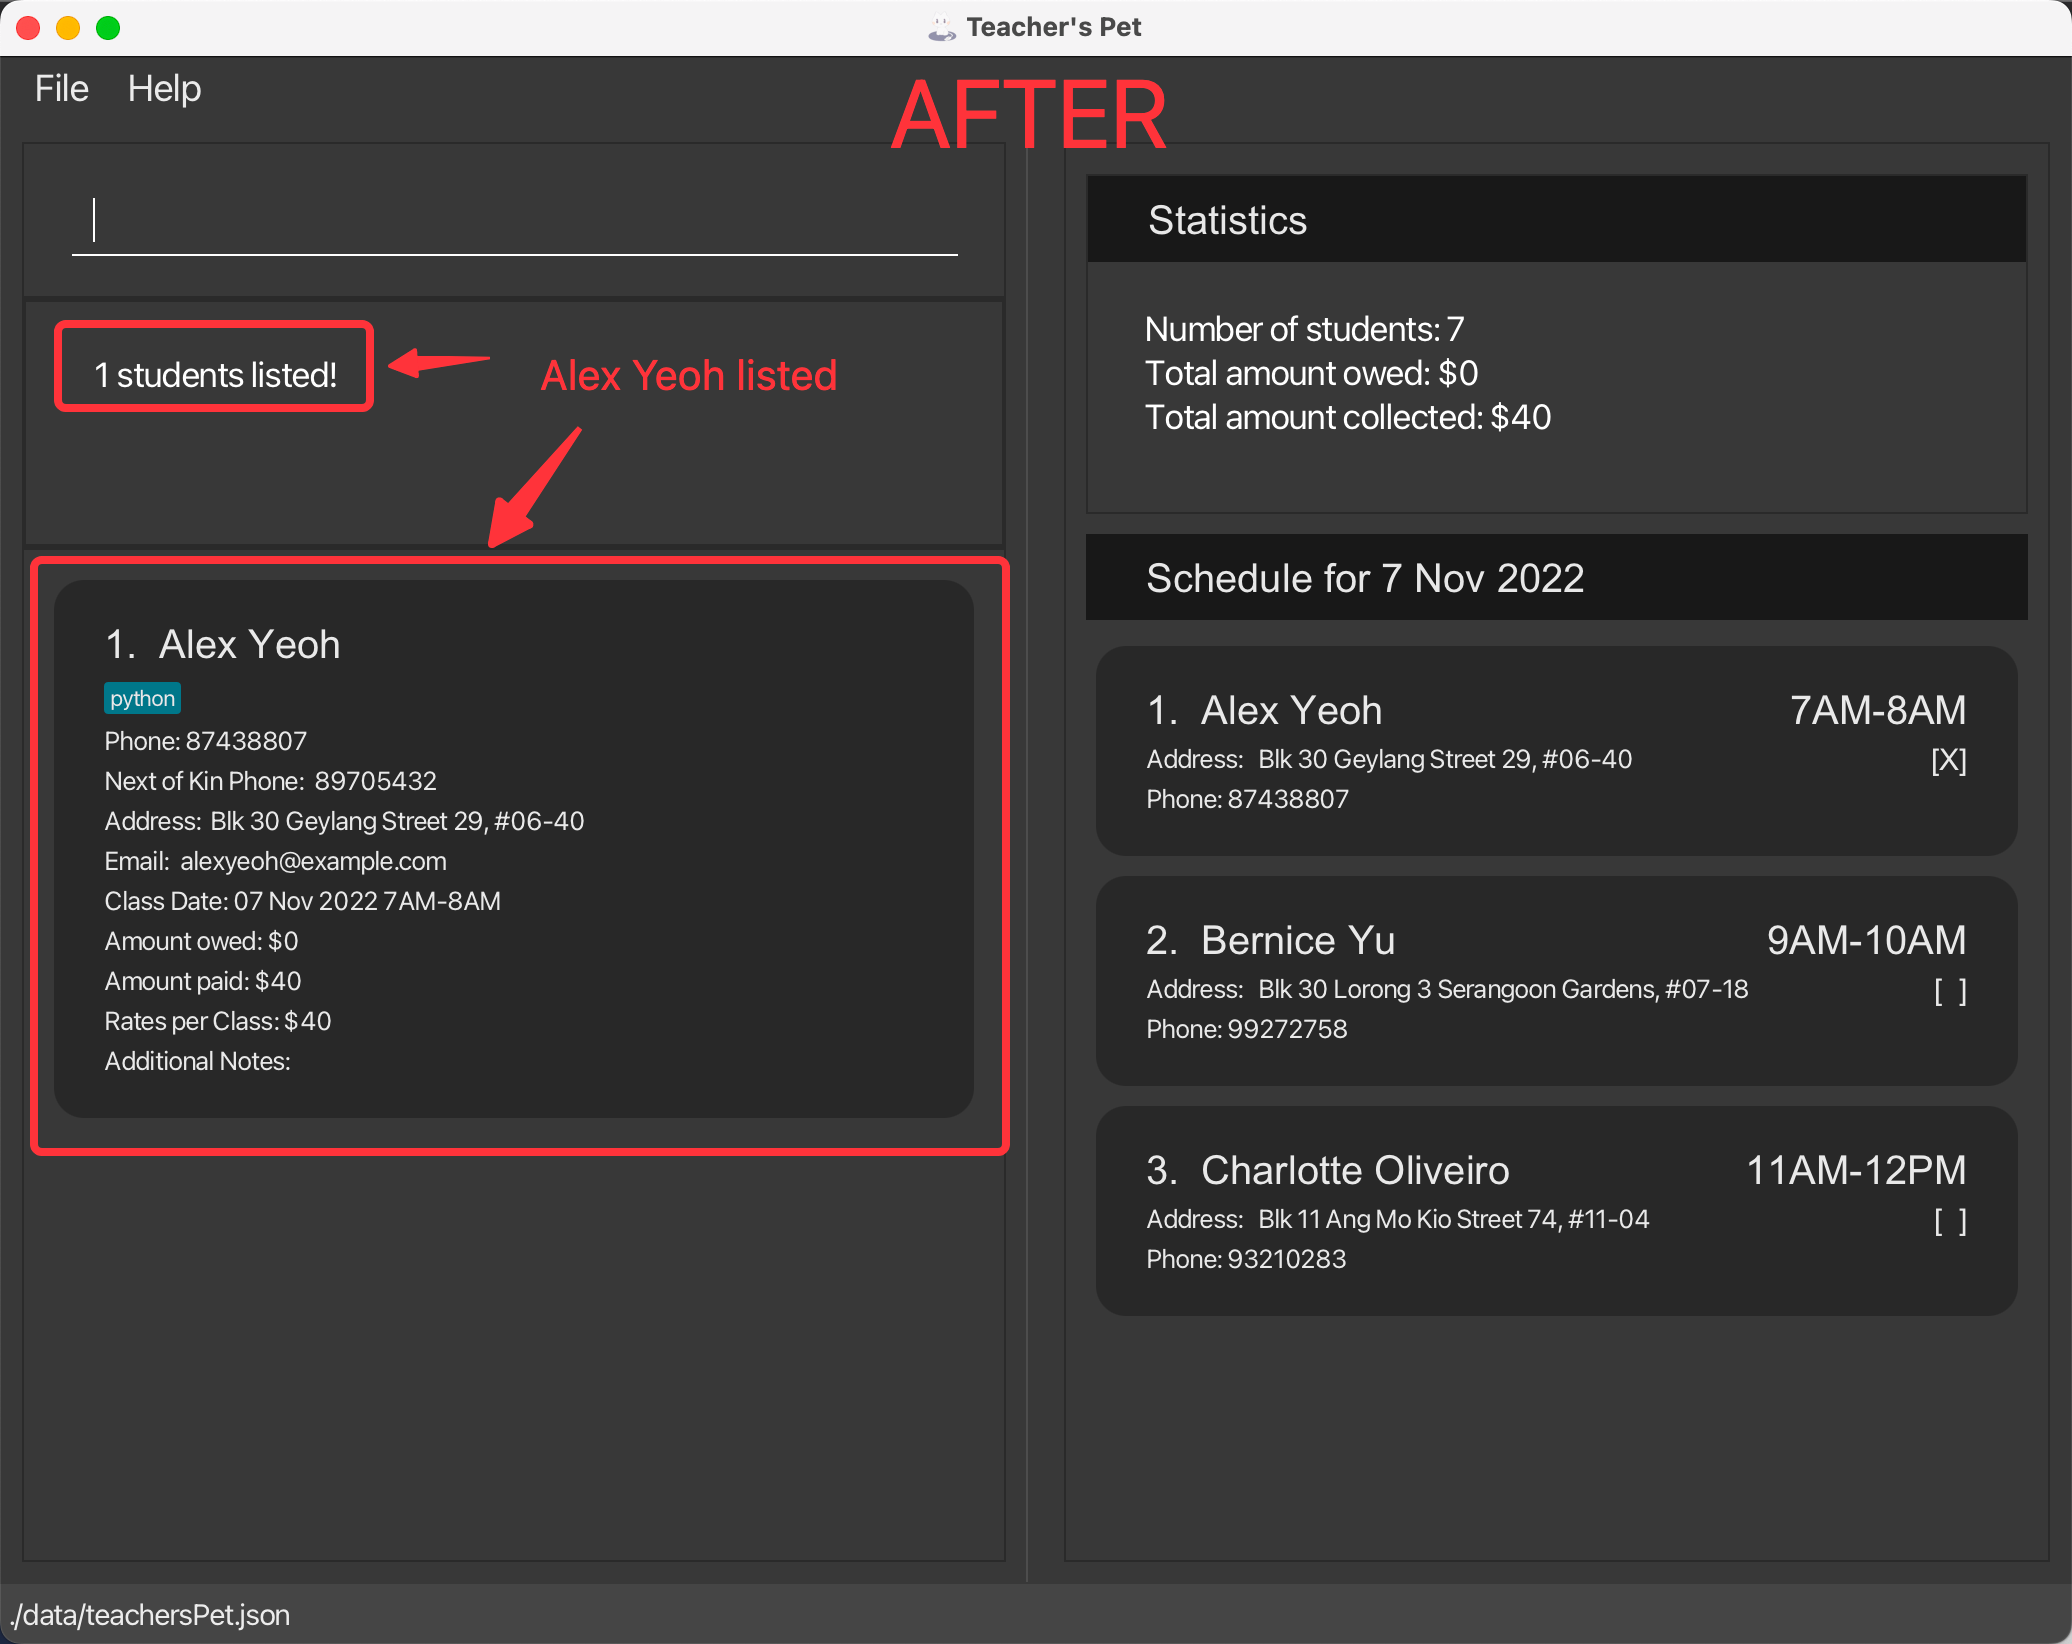
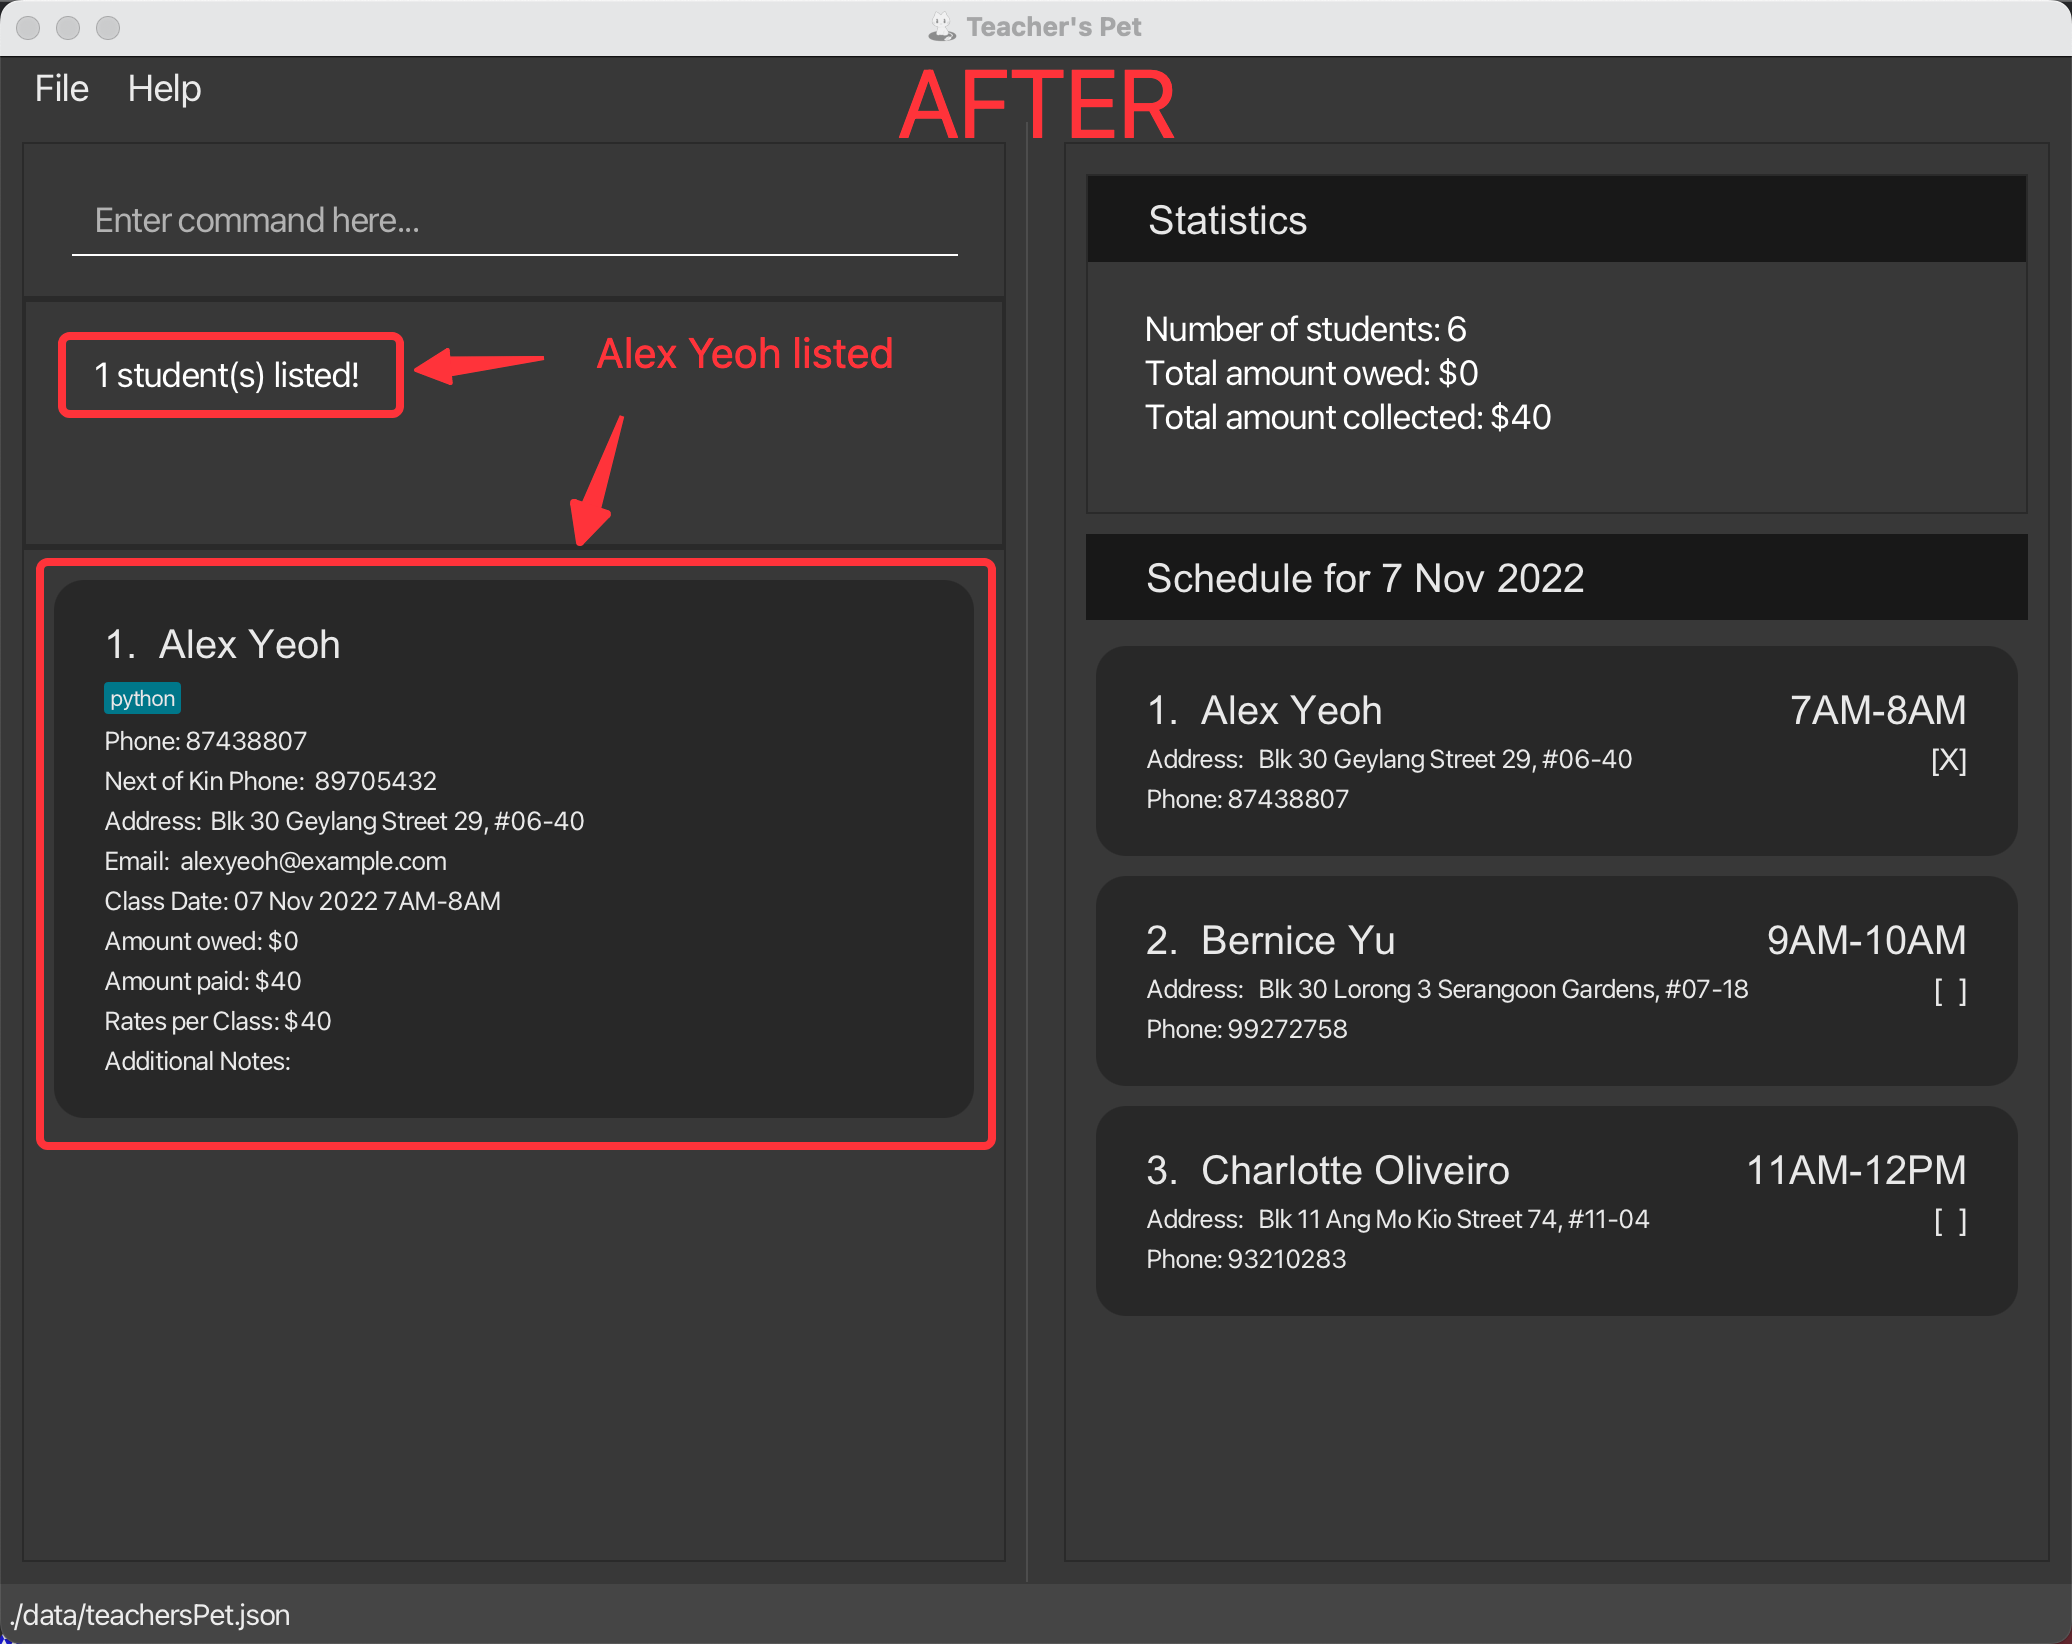
Slight fix

diff --git a/src/main/java/seedu/address/commons/core/Messages.java b/src/main/java/seedu/address/commons/core/Messages.java
@@ -10,7 +10,7 @@ public class Messages {
     public static final String MESSAGE_INVALID_INDEXES =
             "One or more indexes provided are not a valid index number in the displayed student list.";
     public static final String MESSAGE_INVALID_STUDENT_DISPLAYED_INDEX = "Invalid student index(es) provided.";
-    public static final String MESSAGE_STUDENTS_LISTED_OVERVIEW = "%1$d students listed!";
+    public static final String MESSAGE_STUDENTS_LISTED_OVERVIEW = "%1$d student(s) listed!";
     public static final String MESSAGE_INVALID_STUDENT_SCHEDULE_INDEX = "The student index provided is invalid.\n"
             + "Please refer to the indexes displayed in the schedule list on the right.";
     public static final String MESSAGE_DUPLICATE_INDEXES = "Indexes provided must be unique.";
